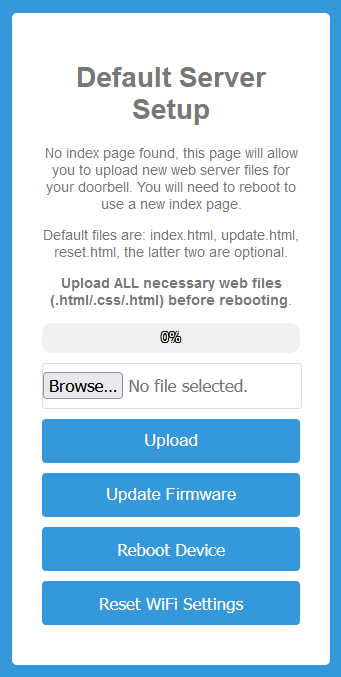
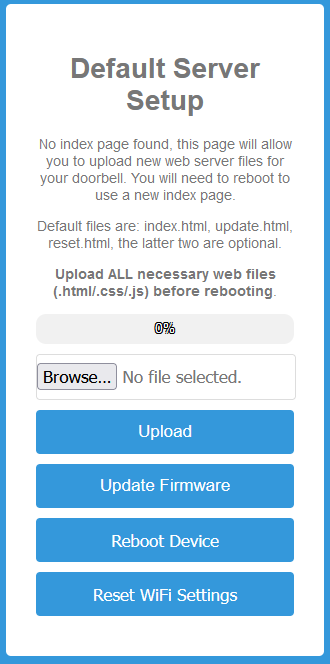
Fixed typo

diff --git a/lib/Webserver/src/Webserver.h b/lib/Webserver/src/Webserver.h
@@ -151,7 +151,7 @@ const char index_page[] = R"(<!DOCTYPE html>
 <h1>Default Server Setup</h1>
 <p>No index page found, this page will allow you to upload new web server files for your doorbell. You will need to reboot to use a new index page.</p>
 <p>Default files are: index.html, update.html, reset.html, the latter two are optional.</p>
-<p><strong>Upload ALL necessary web files (.html/.css/.html) before rebooting</strong>.</p>
+<p><strong>Upload ALL necessary web files (.html/.css/.js) before rebooting</strong>.</p>
 <div id='up-progress'>
     <div id='up-bar'></div>
     <div id='up-percent'>0%</div>
